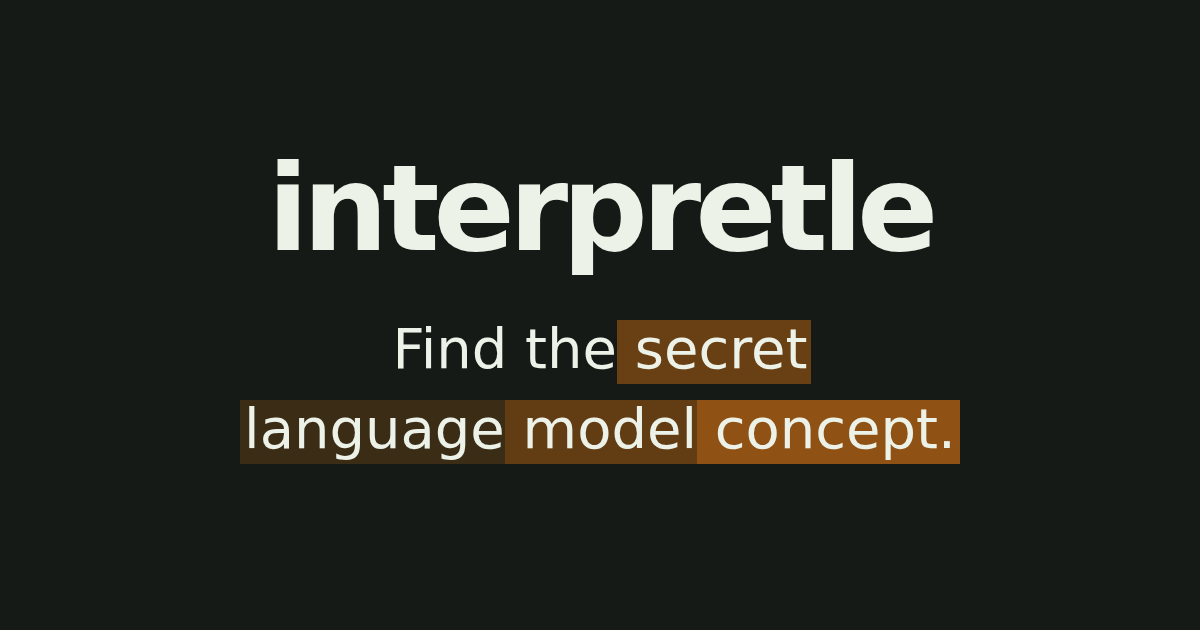
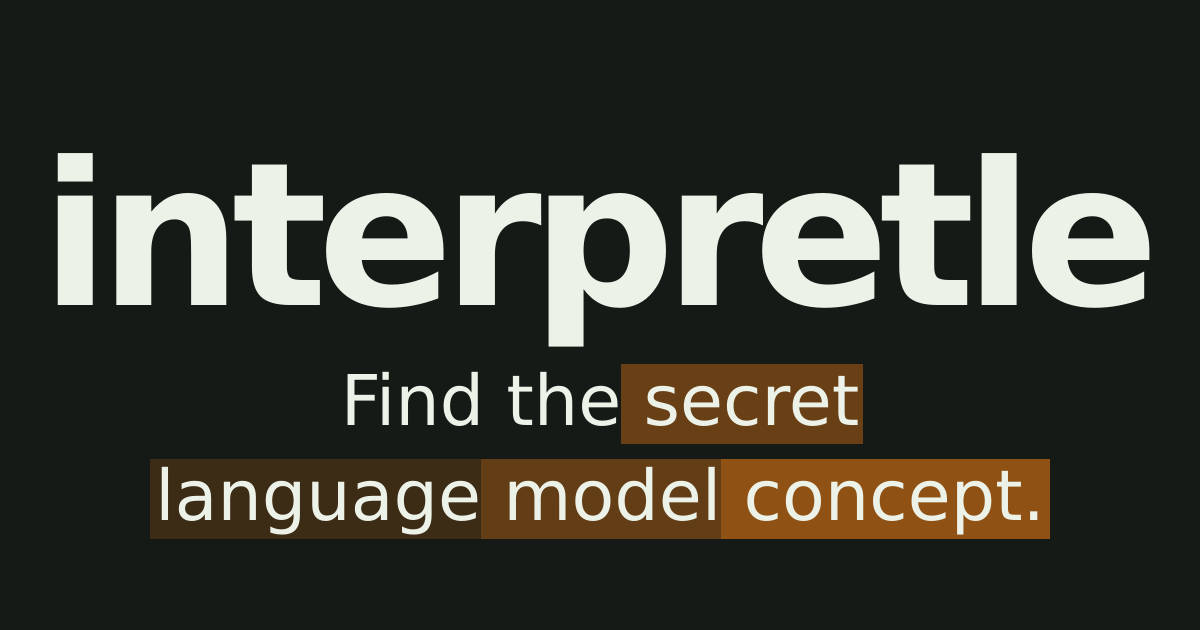
Enlarge and center the social preview typography

Changed region(s): [[0.0308, 0.2413, 0.9558, 0.8746]]

diff --git a/index.html b/index.html
@@ -19,7 +19,7 @@
     />
     <meta
       property="og:image"
-      content="https://interpretle.com/share-card.png?v=3"
+      content="https://interpretle.com/share-card.png?v=4"
     />
     <meta property="og:image:type" content="image/png" />
     <meta property="og:image:width" content="1200" />
@@ -31,7 +31,7 @@
     <meta name="twitter:card" content="summary" />
     <meta
       name="twitter:image"
-      content="https://interpretle.com/share-card.png?v=3"
+      content="https://interpretle.com/share-card.png?v=4"
     />
     <meta
       name="twitter:image:alt"
